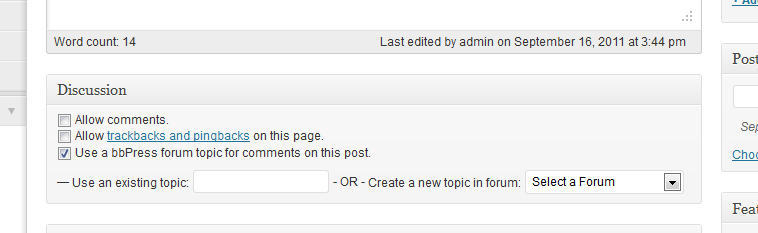
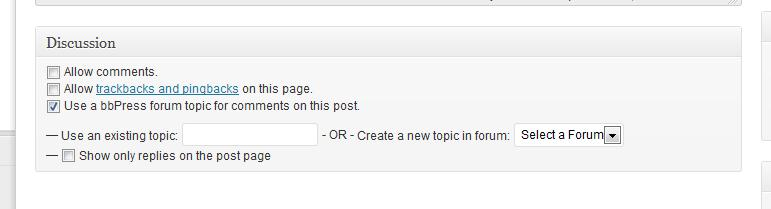
Tagging 0.4
git-svn-id: http://plugins.svn.wordpress.org/bbpress-post-topics/trunk@442417 b8457f37-d9ea-0310-8a92-e5e31aec5664

diff --git a/index.php b/index.php
@@ -2,13 +2,13 @@
 
 /*
 Plugin Name: bbPress Topics for Posts
-Plugin URI: http://www.jerseyconnect.net/development/bbpress-post-topics
+Plugin URI: http://www.generalthreat.com/projects/bbpress-post-topics
 Description: Give authors the option to replace the comments on a WordPress blog post with a topic from an integrated bbPress install
 Author: David Dean
-Version: 0.3
-Revision Date: 09/19/2011
+Version: 0.4
+Revision Date: 09/22/2011
 Requires at least: WP 3.0, bbPress 2.0-rc1
-Tested up to: WP 3.2.1 , bbPress 2.0-rc5
+Tested up to: WP 3.2.1 , bbPress 2.0
 Author URI: http://www.generalthreat.com/
 */
 
@@ -24,12 +24,15 @@ class BBP_PostTopics {
 			return;
 		}
 
-		$bbpress_topic_status = get_post_meta( $post->ID, 'use_bbpress_discussion_topic', true);
-		$bbpress_topic_slug   = get_post_meta( $post->ID, 'bbpress_discussion_topic_id', true);
+		$bbpress_topic_status	= get_post_meta( $post->ID, 'use_bbpress_discussion_topic', true);
+		$bbpress_topic_slug		= get_post_meta( $post->ID, 'bbpress_discussion_topic_id', true);
+		$bbpress_topic_hidden	= get_post_meta( $post->ID, 'bbpress_discussion_hide_topic', true);
 		if($bbpress_topic_slug) {
 			$bbpress_topic = bbp_get_topic( $bbpress_topic_slug);
 			$bbpress_topic_slug = $bbpress_topic->post_name;
 		}
+		
+		add_filter( 'bbp_has_forums_query', 'bbppt_remove_parent_forum_restriction' );
 		
 		$forums = bbp_has_forums();
 		
@@ -49,7 +52,8 @@ class BBP_PostTopics {
 					<?php if(bbp_is_forum_category())	continue; ?>
 					<option value="<?php echo bbp_get_forum_id() ?>"><?php echo bbp_get_forum_title(); ?></option>
 				<?php endwhile; ?>
-			</select>
+			</select><br />
+			&mdash; <input type="checkbox" <?php checked($bbpress_topic_hidden, true) ?> name="bbpress_topic_hidden" id="bbpress_topic_hidden" /> <label for="bbpress_topic_hidden"><?php _e('Show only replies on the post page','bbpress-post-topics'); ?></label>
 		</div>
 		<script type="text/javascript">
 			/** hide options when not checked */
@@ -95,8 +99,9 @@ class BBP_PostTopics {
 				return;
 			}
 
-			$topic_slug  = isset($_POST['bbpress_topic_slug']) ? $_POST['bbpress_topic_slug'] : '' ;
-			$topic_forum = isset($_POST['bbpress_topic_forum']) ? (int)$_POST['bbpress_topic_forum'] : 0 ;
+			$topic_slug   = isset($_POST['bbpress_topic_slug']) ? $_POST['bbpress_topic_slug'] : '' ;
+			$topic_forum  = isset($_POST['bbpress_topic_forum']) ? (int)$_POST['bbpress_topic_forum'] : 0 ;
+			$topic_hidden = isset($_POST['bbpress_topic_hidden']) ? true : false ;
 			
 			if($topic_slug != '') {
 				/** if user has selected an existing topic */
@@ -112,15 +117,16 @@ class BBP_PostTopics {
 					die('there was an error selecting the existing topic');
 				} else {
 					$topic_ID = $topic->ID;
-					update_post_meta($post_ID, 'use_bbpress_discussion_topic','true');
-					update_post_meta($post_ID, 'bbpress_discussion_topic_id', $topic_ID );
+					update_post_meta( $post_ID, 'use_bbpress_discussion_topic','true' );
+					update_post_meta( $post_ID, 'bbpress_discussion_topic_id', $topic_ID );
+					update_post_meta( $post_ID, 'bbpress_discussion_hide_topic', $topic_hidden );
 				}
 				
 			} else if($topic_forum != 0) {
 				/** if user has opted to create a new topic */
 				
 				$topic_content = ($post->post_excerpt != '') ? apply_filters('the_excerpt', $post->post_excerpt) : bbppt_post_discussion_get_the_content($post->post_content, 25) ;
-				$topic_content .= "<br />" . sprintf( __('[See the full post at: <a href="">%s</a>]'), get_permalink( $post_ID) );
+				$topic_content .= "<br />" . sprintf( __('[See the full post at: <a href="%s">%s</a>]'), get_permalink( $post_ID), get_permalink( $post_ID) );
 				
 				$new_topic_data = array(
 					'post_parent'   => $topic_forum,
@@ -138,14 +144,16 @@ class BBP_PostTopics {
 					// return an error of some kind
 					die('there was an error creating a new topic');
 				} else {
-					update_post_meta($post_ID, 'use_bbpress_discussion_topic','true');
+					update_post_meta( $post_ID, 'use_bbpress_discussion_topic','true' );
 					update_post_meta( $post_ID, 'bbpress_discussion_topic_id', $new_topic );
+					update_post_meta( $post_ID, 'bbpress_discussion_hide_topic', $topic_hidden );
 				}
 				
 			}
 		} else {
 			delete_post_meta( $post_ID, 'use_bbpress_discussion_topic' );
 			delete_post_meta( $post_ID, 'bbpress_discussion_topic_id' );
+			delete_post_meta( $post_ID, 'bbpress_discussion_hide_topic' );
 		}
 	}
 	
@@ -161,8 +169,12 @@ class BBP_PostTopics {
 		if(get_post_meta( $post->ID, 'use_bbpress_discussion_topic', true)) {
 			$topic_ID = get_post_meta( $post->ID, 'bbpress_discussion_topic_id', true); 
 			if(file_exists(dirname( __FILE__ ) . '/templates/' . 'comments-bbpress.php')) {
-//				bbp_has_topics( array('ID'=> $topic_ID) );
 				$bbp->topic_query->post->ID = $topic_ID;
+				
+				if(get_post_meta( $post->ID, 'bbpress_discussion_hide_topic', true)) {
+					add_filter( 'bbp_has_replies_query', 'bbppt_remove_topic_from_thread' );
+				}
+				
 		 		return dirname( __FILE__ ) . '/templates/' . 'comments-bbpress.php';
 			}
 		}
@@ -206,7 +218,7 @@ function bbppt_get_topic_by_slug( $slug ) {
 	
 	global $bbp, $wpdb;
 	
-	$topic = $wpdb->get_row( $wpdb->prepare('SELECT ID, post_name, post_parent FROM wp_posts WHERE post_name = %s AND post_type = %s', $slug, bbp_get_topic_post_type()) );
+	$topic = $wpdb->get_row( $wpdb->prepare('SELECT ID, post_name, post_parent FROM ' . $wpdb->posts .  ' WHERE post_name = %s AND post_type = %s', $slug, bbp_get_topic_post_type()) );
 	
 	if(is_null($topic))	return $topic;
 	return $topic;
@@ -249,4 +261,26 @@ function bbppt_post_discussion_get_the_content( $content, $cut = 0, $encode_html
 	$content = str_replace(']]>', ']]&gt;', $content);
 	return $content;
 }
+
+/**
+ * Remove the `post_parent` field from the forum query to get a list of all available forums
+ * Made for use with the bbp_has_forums_query filter
+ */
+function bbppt_remove_parent_forum_restriction( $bbp_args ) {
+	
+	$new_args = array();
+	foreach($bbp_args as $key => $arg) {
+		if($key != 'post_parent') {
+			$new_args[$key] = $arg;
+		}
+	}
+	
+	return $new_args;
+}
+
+function bbppt_remove_topic_from_thread( $bbp_args ) {
+	$bbp_args['post_type'] = bbp_get_reply_post_type();
+	return $bbp_args;
+}
+
 ?>
